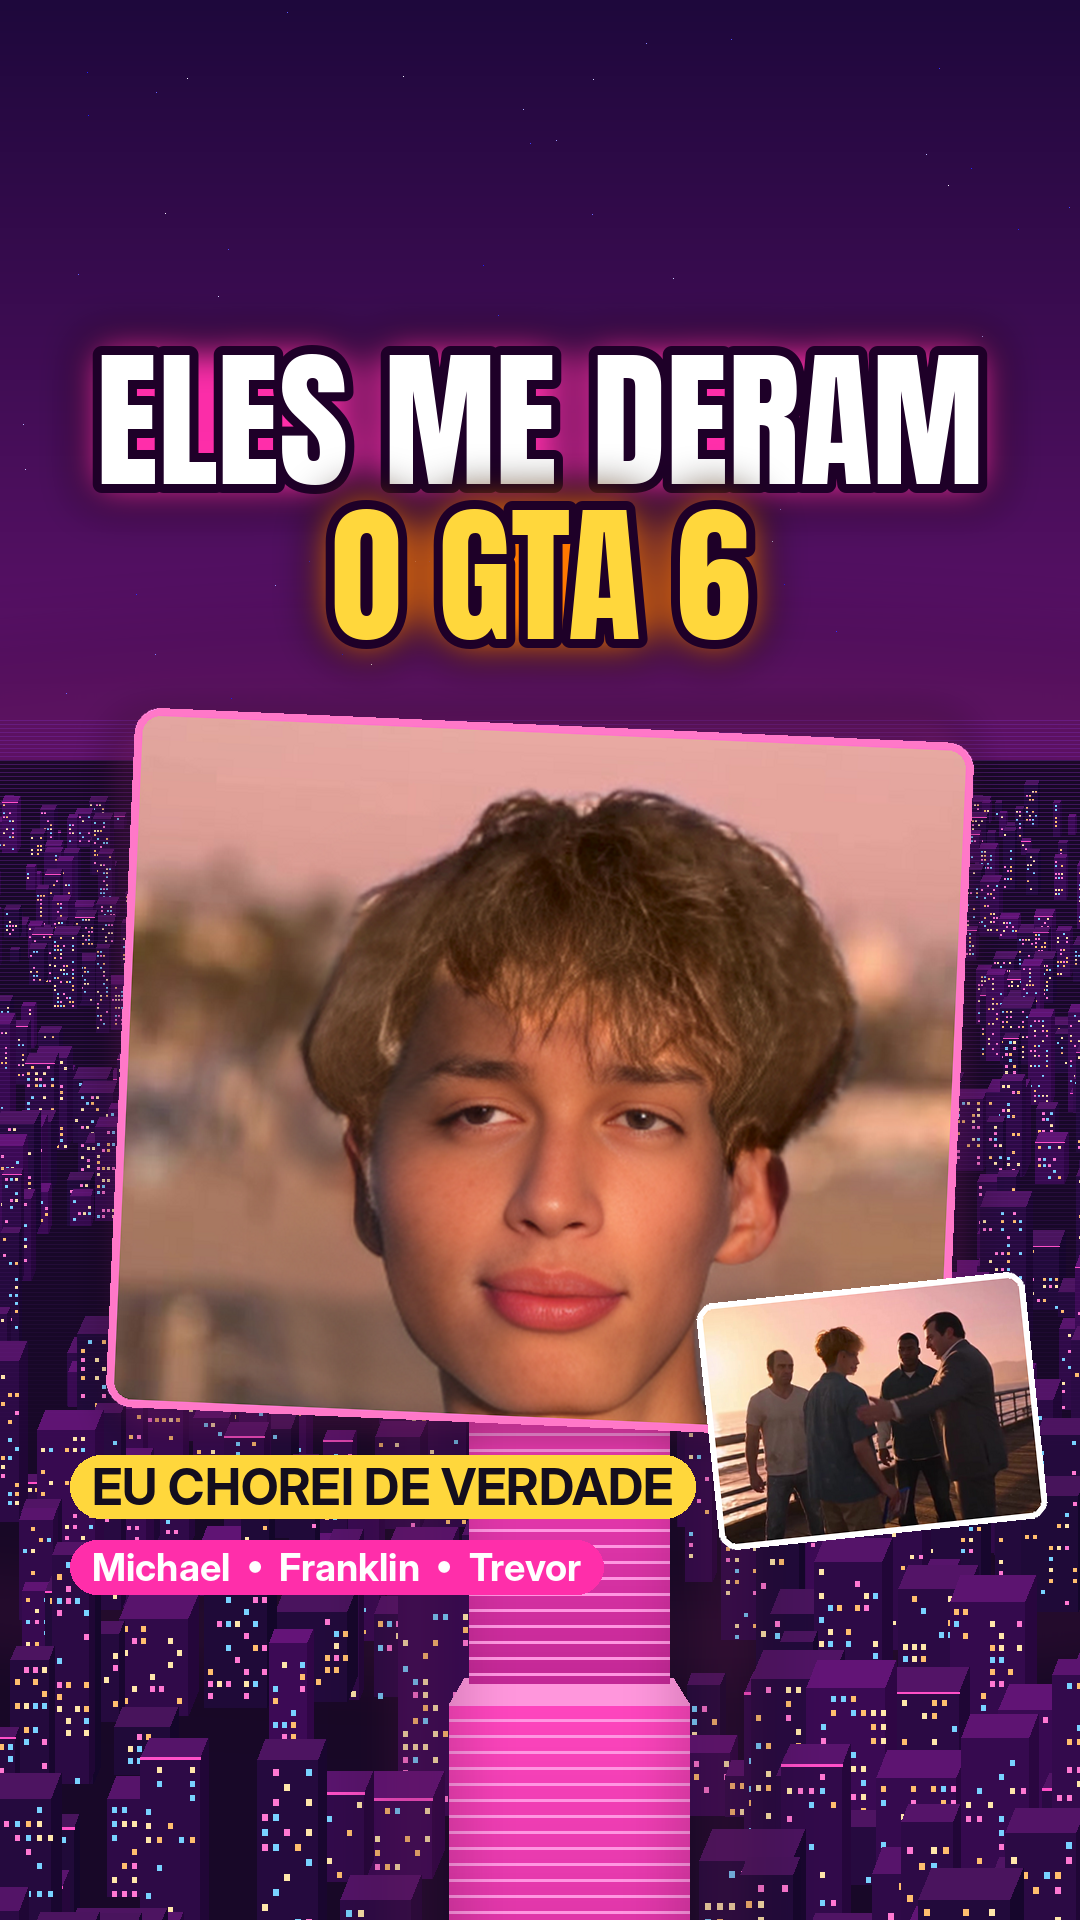
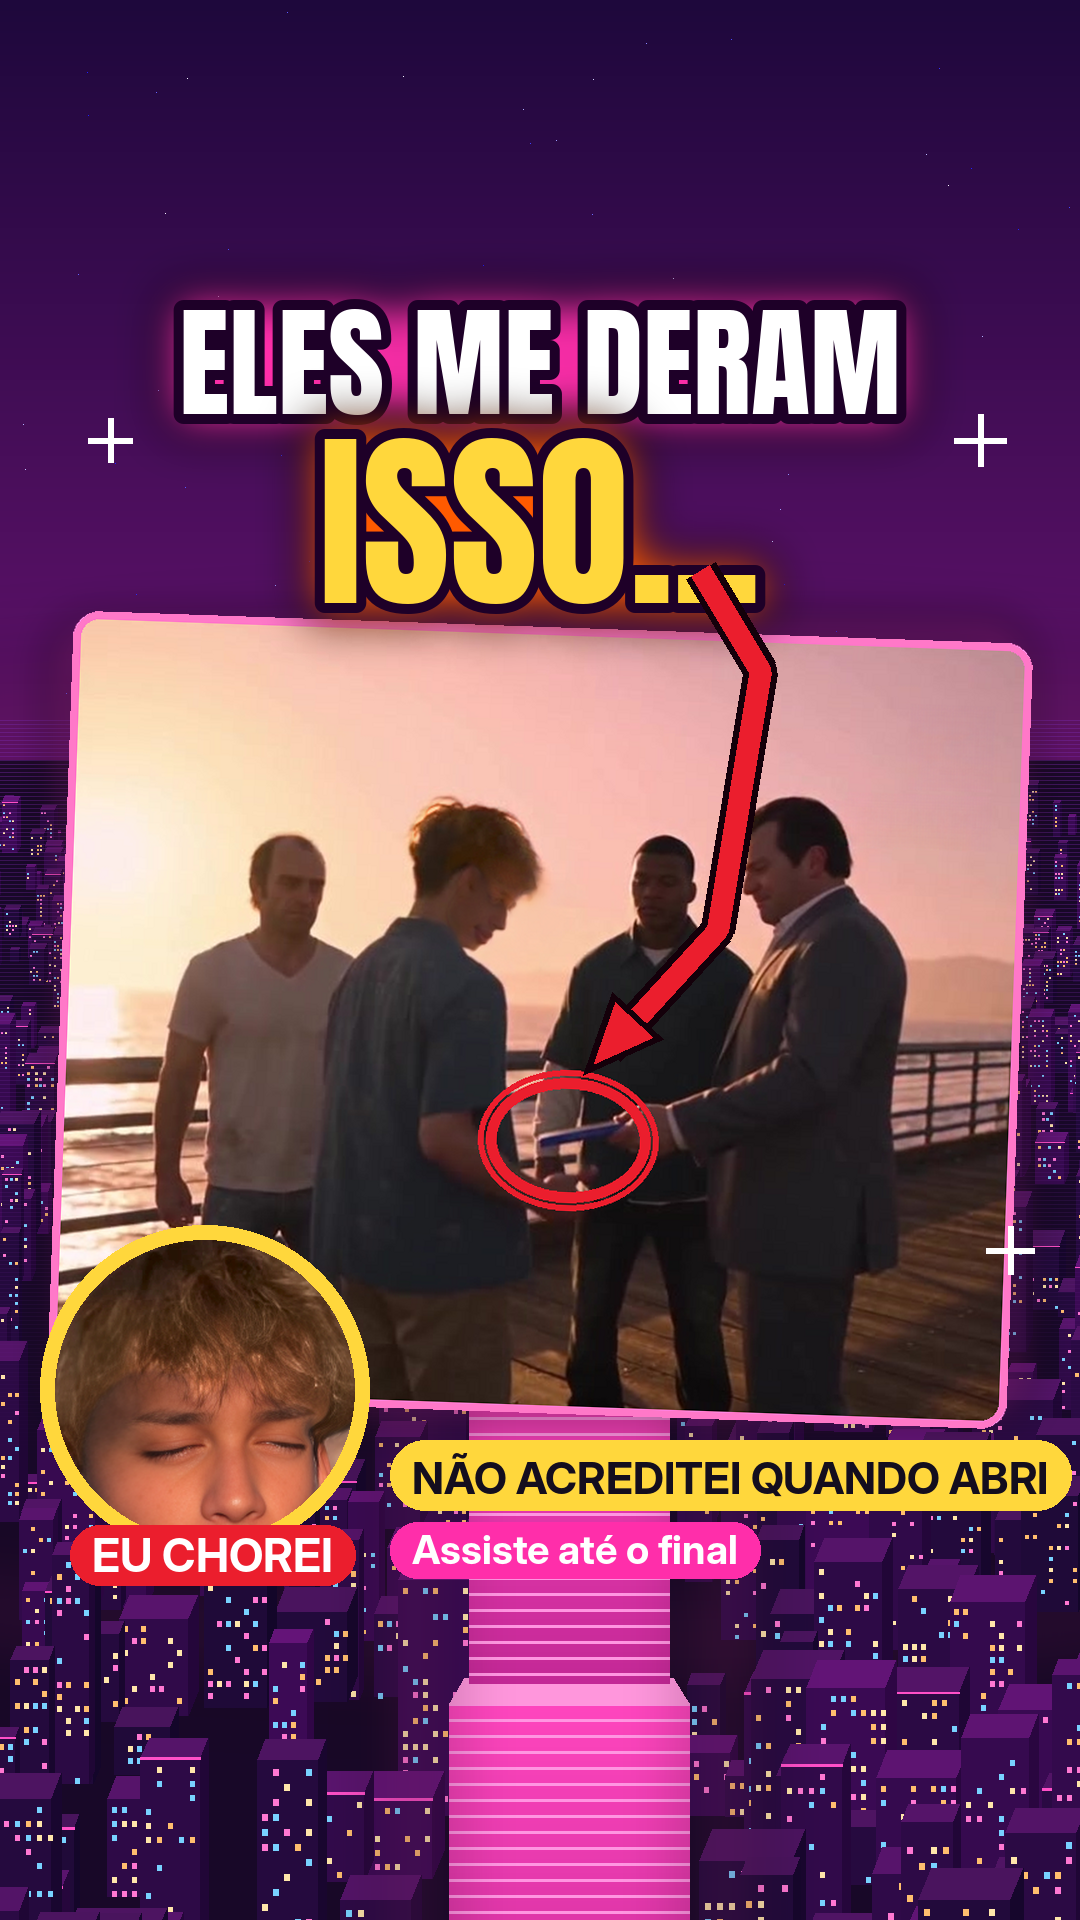
Capa mais chamativa do "Eles me deram o GTA 6" (curiosidade: "ISSO...") e legenda combinando
Claude-Session: https://claude.ai/code/session_01TUqbn6sygufUKaqLfTaUi3

diff --git a/marca/descricao_me_deram_o_gta6.md b/marca/descricao_me_deram_o_gta6.md
@@ -2,9 +2,9 @@
 
 ## TikTok (copie e cole)
 ```
-😭 Imagina receber o GTA 6 das mãos do Michael, do Franklin e do Trevor...
+😱 Eles me deram ISSO... e eu não aguentei 😭
 
-Eu não ia aguentar 🥹🎮
+Imagina receber o GTA 6 das mãos do Michael, do Franklin e do Trevor 🎮
 
 💬 Comenta GTA se você também ia chorar
 👉 Segue pra mais vídeos assim
@@ -16,9 +16,9 @@ Eu não ia aguentar 🥹🎮
 
 ## Instagram Reels (copie e cole)
 ```
-😭 Imagina receber o GTA 6 das mãos do Michael, do Franklin e do Trevor...
+😱 Eles me deram ISSO... e eu não aguentei 😭
 
-Eu não ia aguentar 🥹🎮
+Imagina receber o GTA 6 das mãos do Michael, do Franklin e do Trevor 🎮
 
 💬 Comenta GTA se você também ia chorar
 👉 Segue o perfil pra mais vídeos assim
